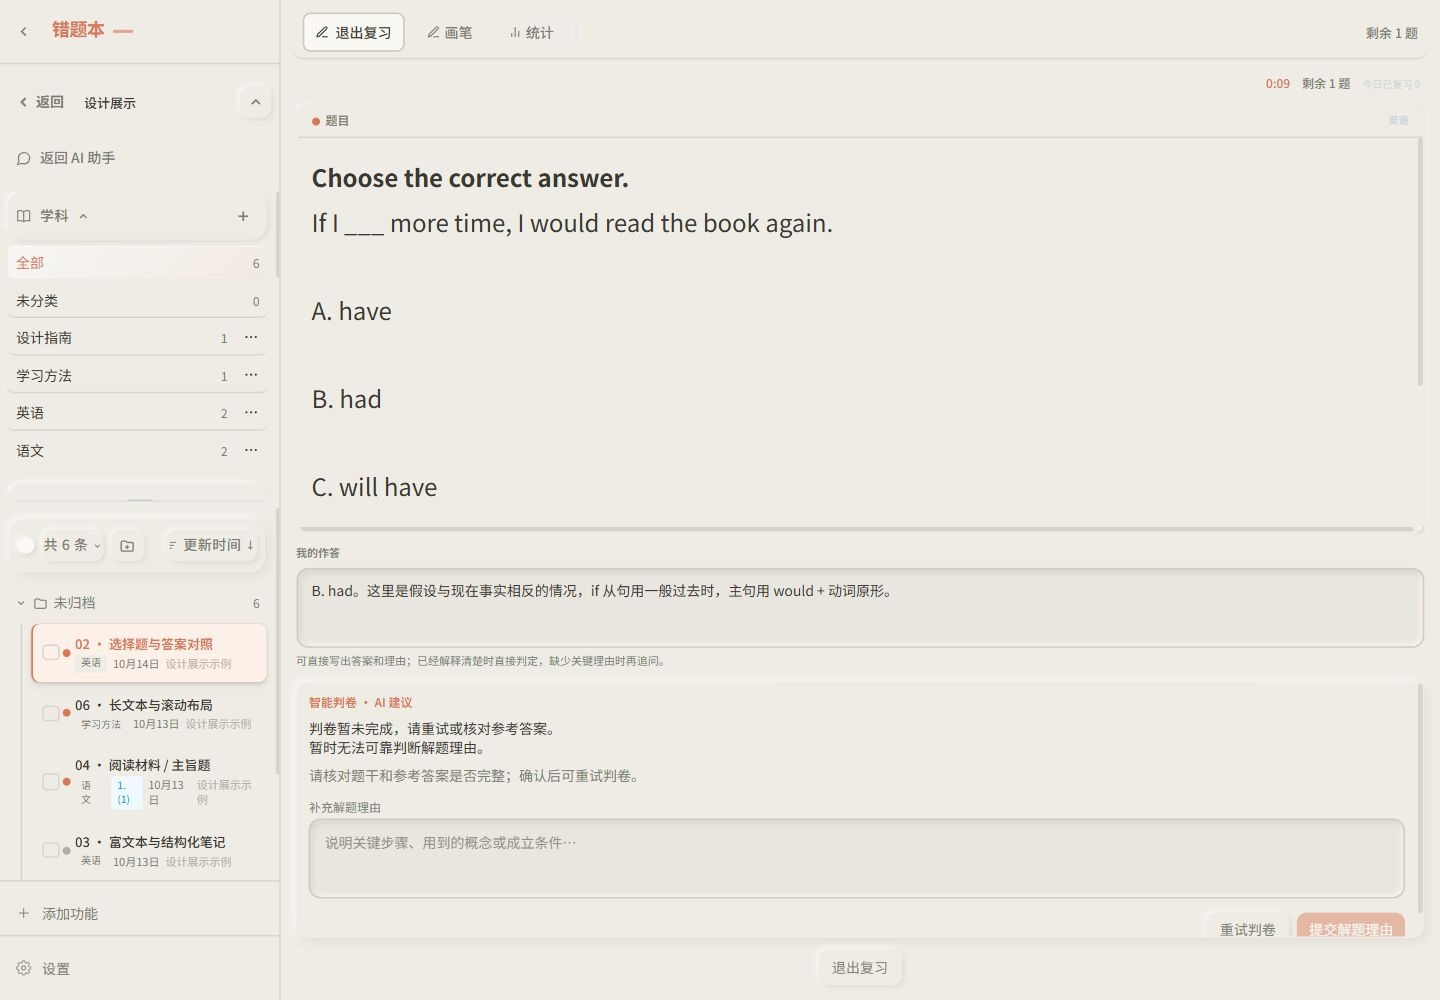
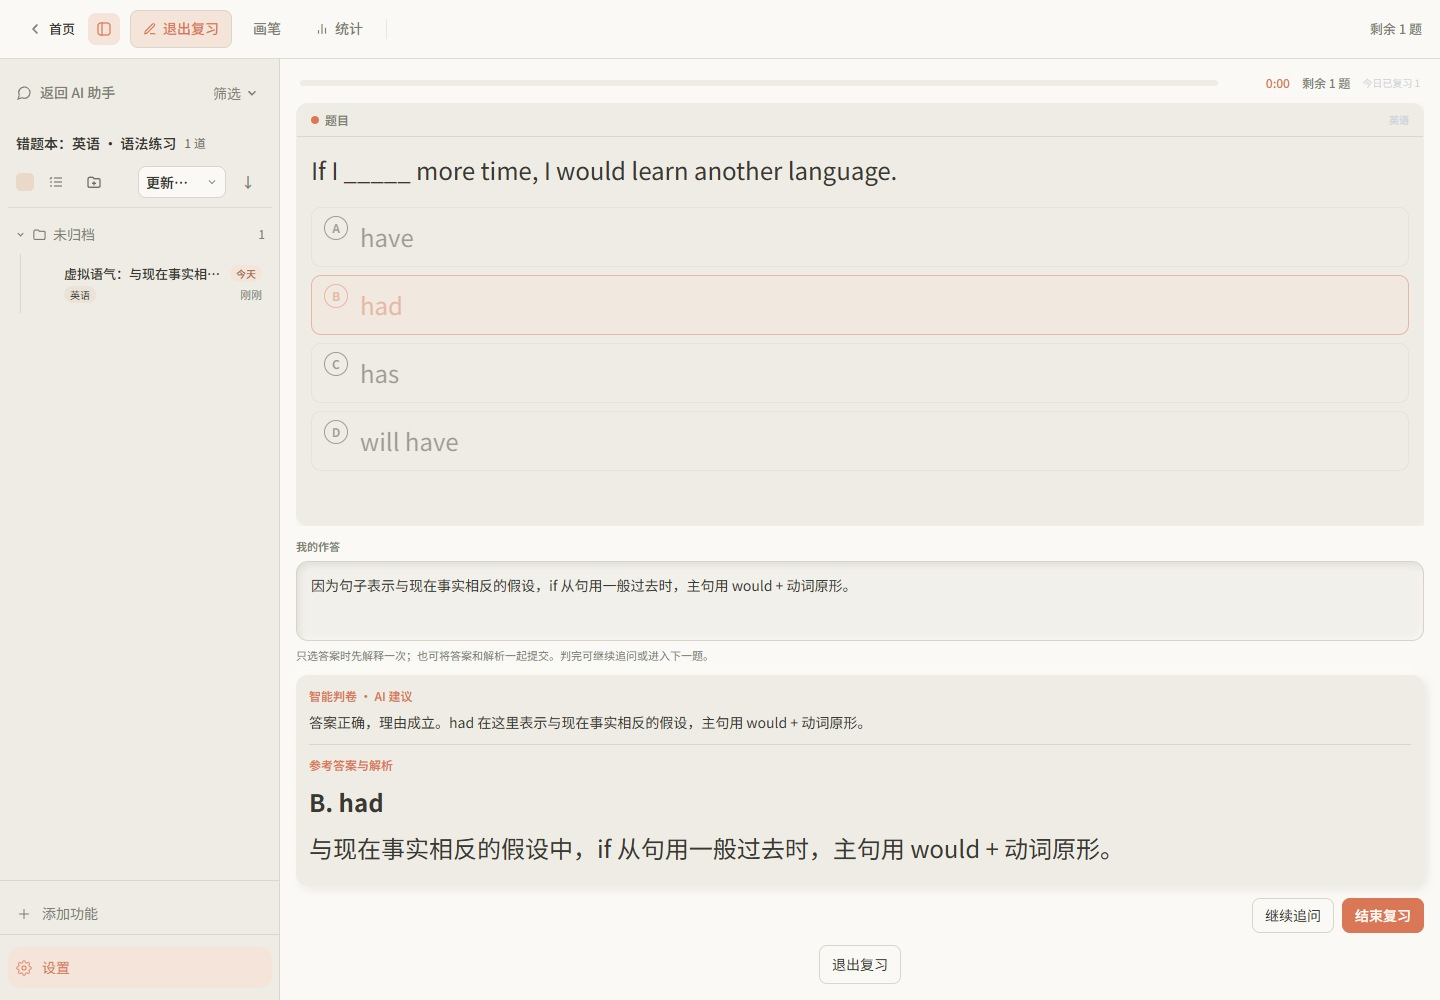
Update review and AI follow-up guide screenshots

diff --git a/src/site/guideScreenshots.ts b/src/site/guideScreenshots.ts
@@ -1,3 +1,6 @@
+import reviewReasonExample from './assets/guide/review-reason-example.png'
+import entryAssistant from './assets/guide/entry-assistant.png'
+
 export interface GuideScreenshot {
   src: string
   alt: string
@@ -104,58 +107,91 @@ export const guideFigures: Record<string, GuideScreenshot> = {
   ),
   reviewing: annotated(
     'reviewing',
-    '题干位于上方；在下方填写本次答案及理由，再提交。',
-    { x: 284, y: 750, width: 1148, height: 200 },
+    '选中答案后，在「我的作答」中填写关键理由，再单击「提交作答」。',
+    { x: 286, y: 750, width: 1148, height: 195 },
     [
       {
-        x: 1410,
-        y: 761,
+        x: 1407,
+        y: 774,
         toX: 860,
-        toY: 819,
-        box: { width: 1130, height: 88 },
-        label: '我的作答同时接收答案和关键理由。',
+        toY: 824,
+        box: { width: 1128, height: 80 },
+        label: '在「我的作答」中说明为什么选 B。',
       },
       {
-        x: 1294,
-        y: 916,
-        toX: 1370,
-        toY: 916,
-        box: { width: 112, height: 46 },
-        label: '单击提交作答，开始核对答案与理由。',
+        x: 1310,
+        y: 915,
+        toX: 1383,
+        toY: 915,
+        box: { width: 82, height: 36 },
+        label: '提交作答，开始智能核对。',
       },
     ],
   ),
   'review-setup': annotated(
     'review-setup',
-    '选择复习范围，核对本轮题数，再开始练习。',
-    { x: 415, y: 245, width: 625, height: 510 },
+    '选择到期复习或自由练习，再确认本轮题数。',
+    { x: 413, y: 260, width: 614, height: 480 },
     [
       {
-        x: 1017,
-        y: 385,
+        x: 983,
+        y: 358,
         toX: 720,
-        toY: 385,
-        box: { width: 534, height: 84 },
-        label: '到期复习与自由练习使用不同的题目范围。',
+        toY: 404,
+        box: { width: 526, height: 70 },
+        label: '按本轮目标选择到期复习或自由练习。',
       },
       {
-        x: 716,
-        y: 646,
-        toX: 640,
-        toY: 646,
-        box: { width: 84, height: 32 },
-        label: '本轮题数可限制练习量；右侧显示实际将复习的题数。',
-      },
-      {
-        x: 1008,
-        y: 699,
-        toX: 941,
-        toY: 699,
-        box: { width: 88, height: 40 },
-        label: '确认范围与题量后，开始练习。',
+        x: 854,
+        y: 704,
+        toX: 944,
+        toY: 680,
+        box: { width: 78, height: 34 },
+        label: '确认题数后，单击「开始练习」。',
       },
     ],
   ),
+  'review-feedback': annotated(
+    'review-feedback',
+    '核对完成后，可查看 AI 点评与参考答案，再选择继续追问或结束复习。',
+    { x: 285, y: 657, width: 1149, height: 290 },
+    [
+      {
+        x: 1220,
+        y: 915,
+        toX: 1293,
+        toY: 915,
+        box: { width: 82, height: 36 },
+        label: '「继续追问」打开本题的问答窗口。',
+      },
+    ],
+  ),
+  'review-followup': {
+    ...shot(
+      'review-followup',
+      '继续追问窗口，显示本题的提问、AI 回复和待发送的下一条问题。',
+      '读完回复后，可继续输入问题，或单击「返回复习」回到当前题。',
+    ),
+    width: 1440,
+    height: 1000,
+    focus: { x: 487, y: 155, width: 466, height: 690 },
+  },
+  'review-reason-example': {
+    src: reviewReasonExample,
+    alt: '智能判卷点评指出选项 A 正确、解题理由无效，右下方显示继续追问和下一题。',
+    caption: '这个例子选对了答案，但理由填写的是「我蒙的」，所以本次复习判为答错。',
+    width: 1907,
+    height: 1178,
+    focus: { x: 7, y: 725, width: 1892, height: 397 },
+  },
+  'entry-assistant': {
+    src: entryAssistant,
+    alt: '题目工作区的复习建议卡，下方有 AI 学习助手的提问框和对话历史入口。',
+    caption: '在复习建议卡下方，可以针对当前题目直接提问，也可以打开对话历史。',
+    width: 2260,
+    height: 1275,
+    focus: { x: 365, y: 215, width: 1875, height: 575 },
+  },
   assistant: shot('assistant', '学习助手对话', '以虚拟语气问题演示学习对话。'),
   'assistant-scope': annotated(
     'assistant',

diff --git a/src/site/guide.ts b/src/site/guide.ts
@@ -89,13 +89,13 @@ const chapters: Record<string, ChapterMeta> = {
   },
   reviewing: {
     group: 'learn',
-    description: '选择复习范围，提交答案与理由，并查看核对结果。',
+    description: '提交答案与理由，查看核对结果，并针对点评向 AI 追问。',
     time: '4 分钟',
     entry: '工作区工具栏 → 进入复习',
   },
   assistant: {
     group: 'learn',
-    description: '发起学习对话，讨论单题或安排关联复习。',
+    description: '发起学习对话，讨论单题、安排关联复习或在复习中追问。',
     time: '3 分钟',
     entry: '应用首页 → 开始复习；单题 → 学习助手',
   },
